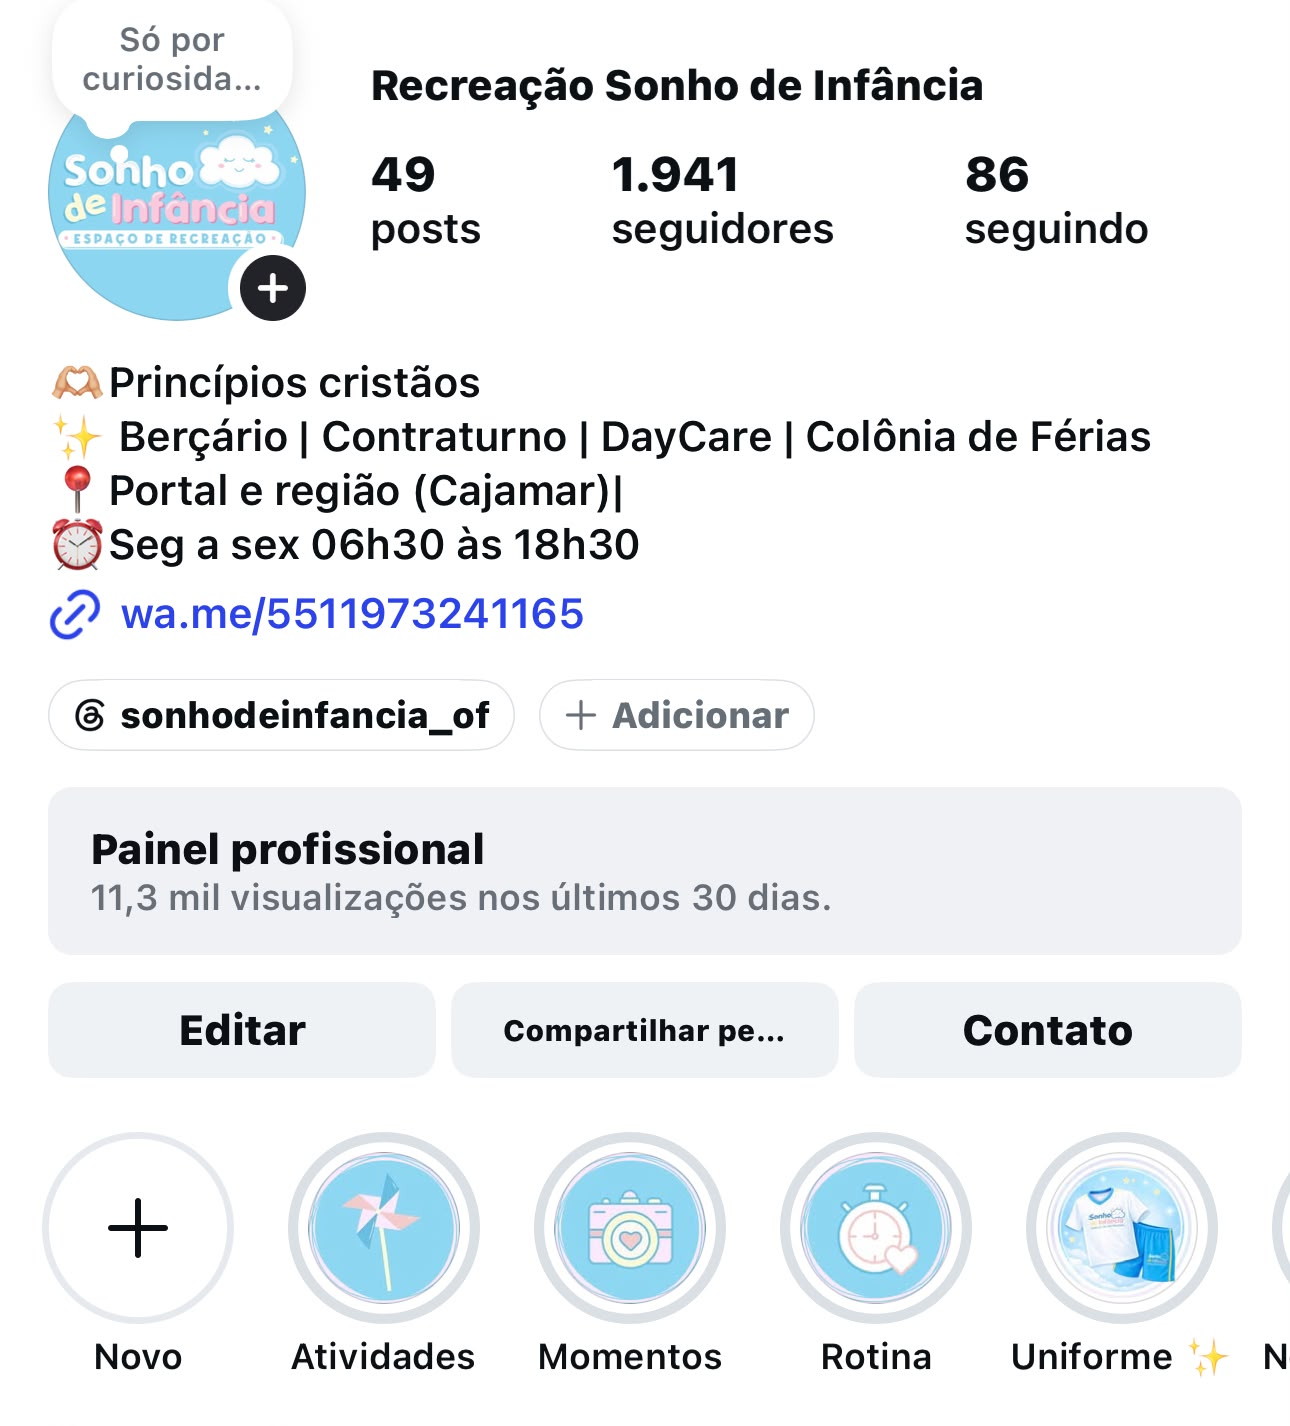
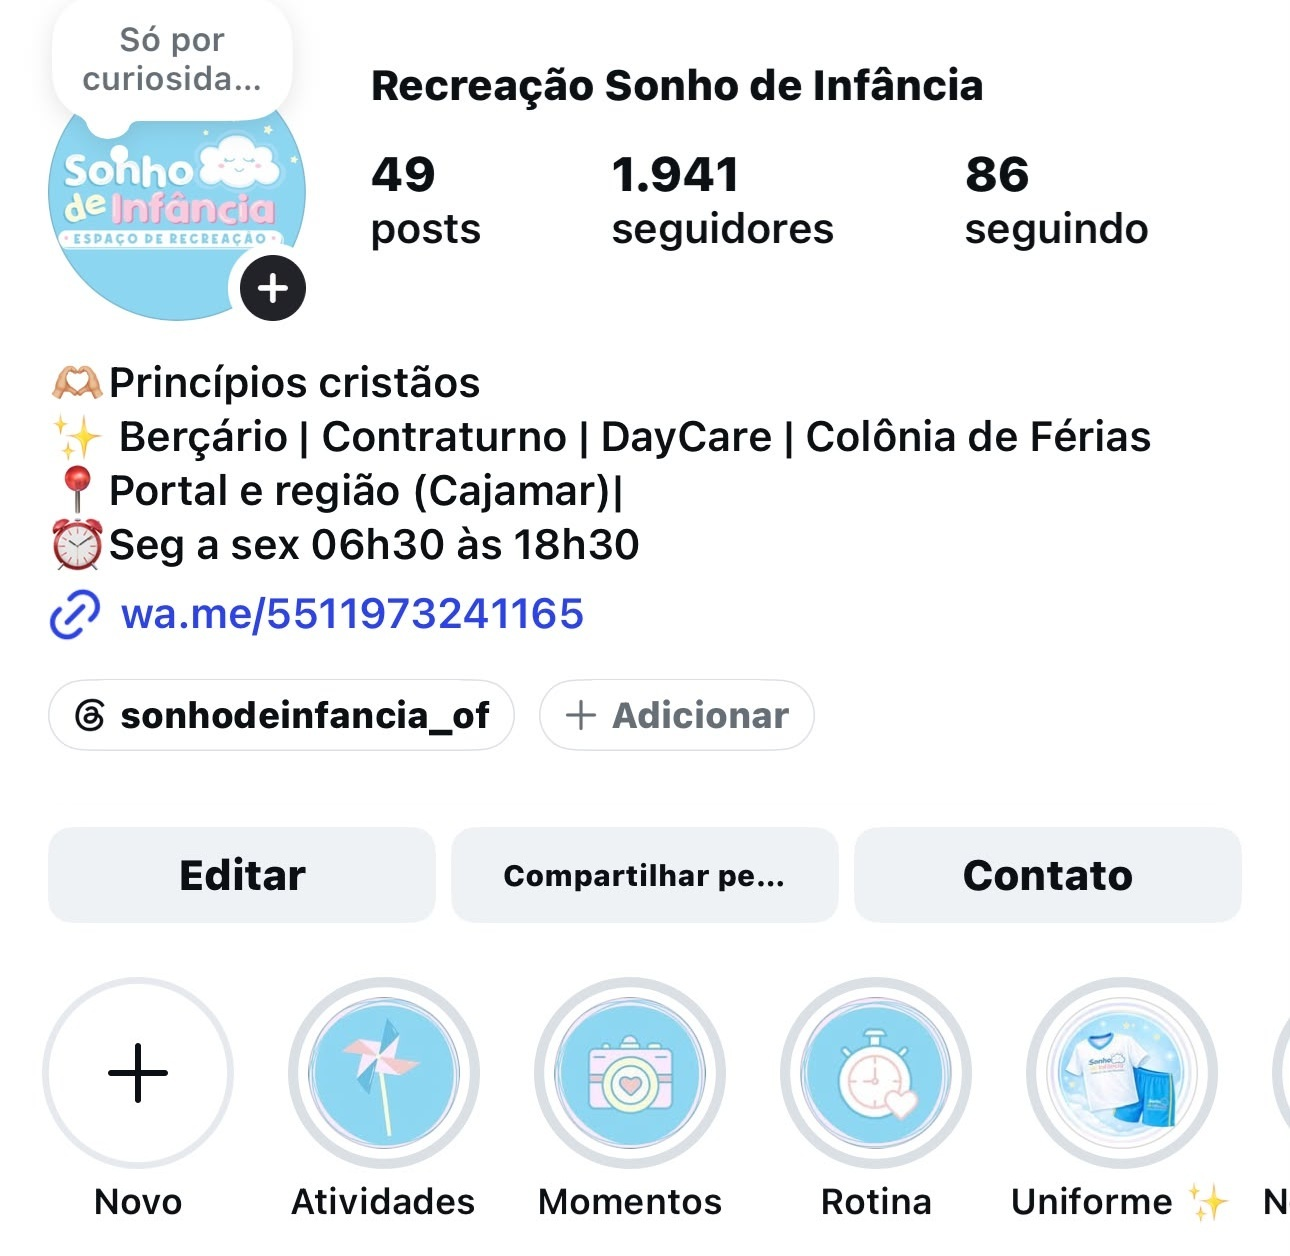
Ajustes footer

diff --git a/index.html b/index.html
@@ -577,7 +577,7 @@
       </div>
 
     </section>
-    <section class="section testimonials" id="avaliacoes">
+    <section class="section testimonials" id="avaliacoes" style="background-color: hsl(197, 100%, 96%);">
 
         <div class="container">
 
@@ -747,10 +747,10 @@
 
           <div class="footer__brand">
 
-              <img src="assets/img/favicon1.png"
+              <img src="assets/img/favicon7.png"
                   alt="Sonho de Infância">
 
-              <h3>Sonho de Infância</h3>
+              <!--<h3>Sonho de Infância</h3>-->
 
               <p>
                   Recreação e desenvolvimento infantil

diff --git a/assets/css/components.css b/assets/css/components.css
@@ -688,15 +688,13 @@ body.lightbox-open{
     transform:scale(1.08);
 
 }
-#dcHora{
 
-}
 
 .button{display:inline-flex;align-items:center;justify-content:center;min-height:54px;padding:0 27px;border-radius:999px;font-weight:700;font-size:.85rem;transition:transform .3s var(--ease),box-shadow .3s,background .3s}.button:hover{transform:translateY(-3px)}.button--small{min-height:44px;padding:0 20px}.button--primary{background:linear-gradient(135deg,var(--pink),var(--pink-deep));color:#fff;box-shadow:0 12px 30px rgba(207,101,151,.28)}.button--glass{background:rgba(255,255,255,.15);color:#fff;border:1px solid rgba(255,255,255,.34);backdrop-filter:blur(8px)}.button--white{background:#fff;color:var(--blue-deep);box-shadow:0 14px 35px rgba(31,110,148,.22)}
 .hero{min-height:900px;height:100vh;position:relative;display:flex;align-items:center;overflow:hidden;color:#fff}.hero__media,.hero__overlay,.hero__aurora{position:absolute;inset:-8% 0}.hero__media img{width:100%;height:100%;object-fit:cover;transform:scale(1.08);animation:kenburns 18s ease-in-out infinite alternate}.hero__overlay{background:linear-gradient(90deg,rgba(142,215,243,.92) 0%,rgba(142,215,243,.65) 45%,rgba(142,215,243,.18) 100%);}
 .hero__aurora{background:radial-gradient(circle at 20% 20%,rgba(255,255,255,.2),transparent 35%),radial-gradient(circle at 85% 55%,rgba(227,140,180,.22),transparent 30%);mix-blend-mode:screen}
 .hero__content{position:relative;z-index:3;display:grid;grid-template-columns:1.2fr .8fr;align-items:center;gap:80px;padding-top:85px}.hero__copy{max-width:720px}.hero h1{font-family:var(--font-title);font-size:clamp(58px,7vw,108px);line-height:.88;letter-spacing:-.055em;margin:0 0 26px}.hero p{max-width:650px;font-size:1.08rem;line-height:1.8;color:rgba(255,255,255,.9)}.hero__actions{display:flex;gap:14px;margin:32px 0}.hero__trust{display:flex;flex-wrap:wrap;gap:20px;font-size:.75rem;color:rgba(255,255,255,.9)}.hero__seal{justify-self:end;width:min(360px,35vw);filter:drop-shadow(0 25px 45px rgba(26,81,107,.25));animation:float 6s ease-in-out infinite}.scroll-cue{position:absolute;z-index:4;left:50%;bottom:48px;display:grid;justify-items:center;gap:8px;transform:translateX(-50%);font-size:.65rem;letter-spacing:.14em;text-transform:uppercase}.scroll-cue i{width:25px;height:38px;border:1px solid rgba(255,255,255,.6);border-radius:20px;position:relative}.scroll-cue i:after{content:"";position:absolute;width:4px;height:7px;border-radius:4px;background:#fff;left:10px;top:7px;animation:scrollDot 1.7s infinite}.sky{position:absolute;inset:0;pointer-events:none}.cloud,.star{position:absolute;color:rgba(255,255,255,.15);filter:drop-shadow(0 8px 18px rgba(57,112,140,.12))}.cloud{font-size:7rem;animation:cloudDrift 8s ease-in-out infinite}.star{font-size:1.4rem;animation:twinkle 2.5s ease-in-out infinite}.cloud--1{left:3%;top:18%}.cloud--2{right:5%;bottom:17%;animation-delay:-3s}.star--1{left:14%;top:12%}.star--2{right:12%;top:25%;animation-delay:-1s}.star--3{left:55%;bottom:22%;animation-delay:-2s}.section-wave{position:absolute;left:-2%;right:-2%;height:100px;background-size:100% 100%;z-index:4}.section-wave--bottom{bottom:-1px;clip-path:polygon(0 58%,8% 48%,17% 61%,26% 45%,38% 59%,50% 42%,62% 58%,74% 44%,85% 60%,100% 48%,100% 100%,0 100%)}.section-wave--white{background:#fff}
-.ticker{background:var(--pink);color:#fff;overflow:hidden;padding:17px 0}.ticker__track{display:flex;width:max-content;animation:ticker 26s linear infinite}.ticker__track span{font-family:var(--font-title);font-size:1.05rem;white-space:nowrap;padding-right:30px}.organic-photo{position:relative;cursor: zoom-in}.organic-photo img{width:100%;height:580px;object-fit:cover;border-radius:80px;box-shadow:var(--shadow)}.organic-photo__badge{position:absolute;right:-25px;bottom:55px;width:210px;padding:20px;background:#fff;border-radius:22px;box-shadow:var(--shadow-soft);font-family:var(--font-title);font-weight:600;color:var(--pink-deep)}.orbit-dot{position:absolute;border-radius:50%}.orbit-dot--a{width:28px;height:28px;background:var(--yellow);left:-15px;top:25%}.orbit-dot--b{width:18px;height:18px;background:var(--pink);right:9%;top:-12px}.feature-list{display:grid;grid-template-columns:1fr 1fr;gap:14px;margin-top:34px}.feature-list article{display:flex;align-items:center;gap:14px;padding:17px;border-radius:18px;background:var(--blue-soft)}.feature-list b{width:42px;height:42px;display:grid;place-items:center;border-radius:14px;background:#fff;color:var(--blue-deep)}.feature-list strong,.feature-list small{display:block}.feature-list strong{font-family:var(--font-title)}.feature-list small{color:var(--muted);font-size:.68rem;margin-top:3px}.statement{position:relative;overflow:hidden;padding:100px 0;background:linear-gradient(135deg,var(--blue),var(--blue-deep));color:#fff;text-align:center}.statement h2{font-family:var(--font-title);font-size:clamp(3rem,6vw,6.3rem);line-height:.94;margin:10px auto 0;max-width:1000px}.statement span{font-size:.78rem;text-transform:uppercase;letter-spacing:.18em}.cloud--3{left:-30px;bottom:-45px;font-size:13rem;color:rgba(255,255,255,.15)}.star--4{right:10%;top:22%}.feature-cards{display:grid;grid-template-columns:repeat(4,1fr);gap:20px}.feature-card{position:relative;overflow:hidden;padding:38px 30px;border:1px solid #e5f0f6;border-radius:var(--radius-md);background:rgba(255,255,255,.78);box-shadow:var(--shadow-soft);transition:.35s var(--ease)}.feature-card:hover{box-shadow:var(--shadow);border-color:transparent}.feature-card>span{width:62px;height:62px;display:grid;place-items:center;border-radius:20px;background:linear-gradient(135deg,var(--blue-soft),var(--pink-soft));font-size:1.8rem;color:var(--pink-deep)}.feature-card h3,.service-card h3{font-family:var(--font-title);font-size:1.45rem;margin:22px 0 10px}.feature-card p,.service-card p{font-size:.78rem;line-height:1.75;color:var(--muted)}.services{background:linear-gradient(145deg,var(--blue-deep),#55b7dc);overflow:hidden}.service-grid{display:grid;grid-template-columns:repeat(4,1fr);gap:18px;position:relative;z-index:2}.service-card{position:relative;padding:38px 27px;border-radius:30px;background:rgba(255,255,255,.96);box-shadow:0 20px 50px rgba(29,100,133,.18);transition:.35s var(--ease)}.service-card:hover{transform:translateY(-12px)}.service-card__number{position:absolute;right:22px;top:19px;font-family:var(--font-title);font-size:2rem;color:#d7ebf3}.service-card>b{width:64px;height:64px;display:grid;place-items:center;border-radius:20px;background:var(--pink-soft);font-size:1.8rem;color:var(--pink-deep)}.service-card a{display:inline-block;margin-top:12px;font-size:.75rem;font-weight:700;color:var(--blue-deep)}.gallery{display:grid;grid-template-columns:1.25fr .75fr;grid-auto-rows:260px;gap:18px}.gallery__item{position:relative;margin:0;overflow:hidden;border-radius:30px;cursor:zoom-in}.gallery__item--wide{grid-row:span 2}.gallery__item--tall{grid-row:span 2}.gallery__item img{width:100%;height:100%;object-fit:cover;transition:transform .8s var(--ease)}.gallery__item:hover img{transform:scale(1.07)}.gallery__item:after{content:"";position:absolute;inset:40% 0 0;background:linear-gradient(transparent,rgba(31,69,91,.7))}.gallery__item figcaption{position:absolute;left:22px;bottom:18px;z-index:2;color:#fff;font-family:var(--font-title);font-size:1.1rem}.brand-experience{background:var(--pink-soft)}.brand-collage{position:relative;min-height:560px}.brand-collage__main{position:absolute;right:0;top:0;width:88%;height:480px;object-fit:cover;border-radius:40px;box-shadow:var(--shadow)}.brand-collage__floating{position:absolute;left:0;bottom:0;width:52%;height:280px;object-fit:cover;border:12px solid #fff;border-radius:28px;box-shadow:var(--shadow-soft)}.faq{background:#f9fcfe}.faq__grid{display:grid;grid-template-columns:.8fr 1.2fr;gap:80px;align-items:start}.faq .section-heading img{margin-top:28px;width:100%;height:250px;object-fit:cover;border-radius:30px}.accordion details{background:#fff;border:1px solid #e4eef4;border-radius:20px;margin-bottom:12px;padding:0 22px}.accordion summary{list-style:none;cursor:pointer;padding:22px 0;display:flex;justify-content:space-between;gap:20px;font-family:var(--font-title);font-weight:600}.accordion summary::-webkit-details-marker{display:none}.accordion summary span{font-size:1.45rem;color:var(--pink-deep);transition:.3s}.accordion details[open] summary span{transform:rotate(45deg)}.accordion p{margin:0;padding:0 0 22px;font-size:.8rem;line-height:1.8;color:var(--muted)}.cta{position:relative;overflow:hidden;padding:95px 0;background:linear-gradient(135deg,var(--pink),var(--blue));color:#fff}.cta__inner{position:relative;z-index:2;display:flex;align-items:center;justify-content:space-between;gap:60px}.cta h2{font-family:var(--font-title);font-size:clamp(2.8rem,5vw,5rem);line-height:.96;margin:0 0 15px;max-width:780px}.cta p{color:rgba(255,255,255,.85)}.cloud--4{right:-50px;bottom:-80px;font-size:17rem;color:rgba(255,255,255,.14)}.star--5{left:7%;top:18%}.footer{background:#fff1f7}.footer__grid{display:grid;grid-template-columns:1.5fr 1fr 1fr 1fr;gap:50px;padding:72px 0 44px}.footer__brand img{width:190px}.footer h3{font-family:var(--font-title)}.footer a,.footer span,.footer p{display:block;margin:7px 0;font-size:.75rem;line-height:1.75;color:var(--muted)}.footer__bottom{text-align:center;padding:16px;background:var(--blue);color:#fff;font-size:.7rem}.back-to-top{right:88px;width:45px;height:45px;border-radius:50%;background:#fff;color:var(--pink-deep);cursor:pointer;opacity:0;visibility:hidden;transition:.3s}.back-to-top.show{opacity:1;visibility:visible}
+.ticker{background:var(--pink);color:#fff;overflow:hidden;padding:17px 0}.ticker__track{display:flex;width:max-content;animation:ticker 26s linear infinite}.ticker__track span{font-family:var(--font-title);font-size:1.05rem;white-space:nowrap;padding-right:30px}.organic-photo{position:relative;cursor: zoom-in}.organic-photo img{width:100%;height:580px;object-fit:cover;border-radius:80px;box-shadow:var(--shadow)}.organic-photo__badge{position:absolute;right:-25px;bottom:55px;width:210px;padding:20px;background:#fff;border-radius:22px;box-shadow:var(--shadow-soft);font-family:var(--font-title);font-weight:600;color:var(--pink-deep)}.orbit-dot{position:absolute;border-radius:50%}.orbit-dot--a{width:28px;height:28px;background:var(--yellow);left:-15px;top:25%}.orbit-dot--b{width:18px;height:18px;background:var(--pink);right:9%;top:-12px}.feature-list{display:grid;grid-template-columns:1fr 1fr;gap:14px;margin-top:34px}.feature-list article{display:flex;align-items:center;gap:14px;padding:17px;border-radius:18px;background:var(--blue-soft)}.feature-list b{width:42px;height:42px;display:grid;place-items:center;border-radius:14px;background:#fff;color:var(--blue-deep)}.feature-list strong,.feature-list small{display:block}.feature-list strong{font-family:var(--font-title)}.feature-list small{color:var(--muted);font-size:.68rem;margin-top:3px}.statement{position:relative;overflow:hidden;padding:100px 0;background:linear-gradient(135deg,var(--blue),var(--blue-deep));color:#fff;text-align:center}.statement h2{font-family:var(--font-title);font-size:clamp(3rem,6vw,6.3rem);line-height:.94;margin:10px auto 0;max-width:1000px}.statement span{font-size:.78rem;text-transform:uppercase;letter-spacing:.18em}.cloud--3{left:-30px;bottom:-45px;font-size:13rem;color:rgba(255,255,255,.15)}.star--4{right:10%;top:22%}.feature-cards{display:grid;grid-template-columns:repeat(4,1fr);gap:20px}.feature-card{position:relative;overflow:hidden;padding:38px 30px;border:1px solid #e5f0f6;border-radius:var(--radius-md);background:rgba(255,255,255,.78);box-shadow:var(--shadow-soft);transition:.35s var(--ease)}.feature-card:hover{box-shadow:var(--shadow);border-color:transparent}.feature-card>span{width:62px;height:62px;display:grid;place-items:center;border-radius:20px;background:linear-gradient(135deg,var(--blue-soft),var(--pink-soft));font-size:1.8rem;color:var(--pink-deep)}.feature-card h3,.service-card h3{font-family:var(--font-title);font-size:1.45rem;margin:22px 0 10px}.feature-card p,.service-card p{font-size:.78rem;line-height:1.75;color:var(--muted)}.services{background:linear-gradient(145deg,var(--blue-deep),#55b7dc);overflow:hidden}.service-grid{display:grid;grid-template-columns:repeat(4,1fr);gap:18px;position:relative;z-index:2}.service-card{position:relative;padding:38px 27px;border-radius:30px;background:rgba(255,255,255,.96);box-shadow:0 20px 50px rgba(29,100,133,.18);transition:.35s var(--ease)}.service-card:hover{transform:translateY(-12px)}.service-card__number{position:absolute;right:22px;top:19px;font-family:var(--font-title);font-size:2rem;color:#d7ebf3}.service-card>b{width:64px;height:64px;display:grid;place-items:center;border-radius:20px;background:var(--pink-soft);font-size:1.8rem;color:var(--pink-deep)}.service-card a{display:inline-block;margin-top:12px;font-size:.75rem;font-weight:700;color:var(--blue-deep)}.gallery{display:grid;grid-template-columns:1.25fr .75fr;grid-auto-rows:260px;gap:18px}.gallery__item{position:relative;margin:0;overflow:hidden;border-radius:30px;cursor:zoom-in}.gallery__item--wide{grid-row:span 2}.gallery__item--tall{grid-row:span 2}.gallery__item img{width:100%;height:100%;object-fit:cover;transition:transform .8s var(--ease)}.gallery__item:hover img{transform:scale(1.07)}.gallery__item:after{content:"";position:absolute;inset:40% 0 0;background:linear-gradient(transparent,rgba(31,69,91,.7))}.gallery__item figcaption{position:absolute;left:22px;bottom:18px;z-index:2;color:#fff;font-family:var(--font-title);font-size:1.1rem}.brand-experience{background:var(--pink-soft)}.brand-collage{position:relative;min-height:560px}.brand-collage__main{position:absolute;right:0;top:0;width:88%;height:480px;object-fit:cover;border-radius:40px;box-shadow:var(--shadow)}.brand-collage__floating{position:absolute;left:0;bottom:0;width:52%;height:280px;object-fit:cover;border:12px solid #fff;border-radius:28px;box-shadow:var(--shadow-soft)}.faq{background:#f9fcfe}.faq__grid{display:grid;grid-template-columns:.8fr 1.2fr;gap:80px;align-items:start}.faq .section-heading img{margin-top:28px;width:100%;height:250px;object-fit:cover;border-radius:30px}.accordion details{background:#fff;border:1px solid #e4eef4;border-radius:20px;margin-bottom:12px;padding:0 22px}.accordion summary{list-style:none;cursor:pointer;padding:22px 0;display:flex;justify-content:space-between;gap:20px;font-family:var(--font-title);font-weight:600}.accordion summary::-webkit-details-marker{display:none}.accordion summary span{font-size:1.45rem;color:var(--pink-deep);transition:.3s}.accordion details[open] summary span{transform:rotate(45deg)}.accordion p{margin:0;padding:0 0 22px;font-size:.8rem;line-height:1.8;color:var(--muted)}.cta{position:relative;overflow:hidden;padding:95px 0;background:linear-gradient(135deg,var(--pink),var(--blue));color:#fff}.cta__inner{position:relative;z-index:2;display:flex;align-items:center;justify-content:space-between;gap:60px}.cta h2{font-family:var(--font-title);font-size:clamp(2.8rem,5vw,5rem);line-height:.96;margin:0 0 15px;max-width:780px}.cta p{color:rgba(255,255,255,.85)}.cloud--4{right:-50px;bottom:-80px;font-size:17rem;color:rgba(255,255,255,.14)}.star--5{left:7%;top:18%}.footer{background:#fff}.footer__grid{display:grid;grid-template-columns:1.5fr 1fr 1fr 1fr;gap:50px;padding:72px 0 44px}.footer__brand img{width:190px}.footer h3{font-family:var(--font-title)}.footer a,.footer span,.footer p{display:block;margin:7px 0;font-size:.75rem;line-height:1.75;color:var(--muted)}.footer__bottom{text-align:center;padding:16px;background:var(--blue);color:#fff;font-size:.7rem}.back-to-top{right:88px;width:45px;height:45px;border-radius:50%;background:#fff;color:var(--pink-deep);cursor:pointer;opacity:0;visibility:hidden;transition:.3s}.back-to-top.show{opacity:1;visibility:visible}
 
 
 /* Fase 2 — conteúdo oficial */